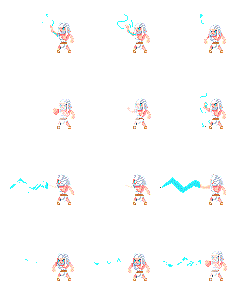
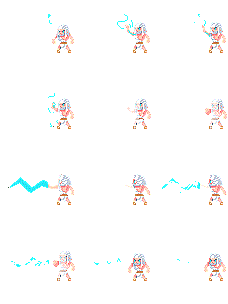
25/5 update attack animation

diff --git a/Assets/Codes/Assets.java b/Assets/Codes/Assets.java
@@ -22,8 +22,6 @@ public class Assets {
         SpriteSheet attack_left = new SpriteSheet(ImageLoader.loadImage("../Images/Player/Zeus/zeus_attack_left.png"));
         SpriteSheet attack_right = new SpriteSheet(ImageLoader.loadImage("../Images/Player/Zeus/zeus_attack_right.png"));
 
-
-
         // Enemy's textures
         SpriteSheet move_right = new SpriteSheet(ImageLoader.loadImage("../Images/Creep/jugg.png"));
         SpriteSheet move_left = new SpriteSheet(ImageLoader.loadImage("../Images/Creep/jugg.png"));
@@ -49,6 +47,81 @@ public class Assets {
         player_idle_right[0] = idle_right.crop(0, 0, 32, 32);
         player_idle_right[1] = idle_right.crop(32, 0, 32, 32);
         player_idle_right[2] = idle_right.crop(0, 32, 32, 32);
+
+        player_attack_front = new BufferedImage[9];
+        player_attack_front[0] = attack_front.crop(15, 1, 32, 32);
+        player_attack_front[1] = attack_front.crop(79, 1, 32, 32);
+        player_attack_front[2] = attack_front.crop(143, 1, 32, 32);
+        player_attack_front[3] = attack_front.crop(15, 63, 32, 64);
+        player_attack_front[4] = attack_front.crop(79, 63, 36, 64);
+        player_attack_front[5] = attack_front.crop(143, 63, 36, 64);
+        player_attack_front[6] = attack_front.crop(15, 125, 36, 64);
+        player_attack_front[7] = attack_front.crop(79, 125, 36, 64);
+        player_attack_front[8] = attack_front.crop(143, 125, 36, 64);
+
+        player_attack_back = new BufferedImage[9];
+        player_attack_back[0] = attack_back.crop(15, 29, 32, 32);
+        player_attack_back[1] = attack_back.crop(80, 29, 32, 32);
+        player_attack_back[2] = attack_back.crop(143, 29, 32, 32);
+        player_attack_back[3] = attack_back.crop(15, 63, 32, 64);
+        player_attack_back[4] = attack_back.crop(80, 63, 36, 64);
+        player_attack_back[5] = attack_back.crop(143, 63, 36, 64);
+        player_attack_back[6] = attack_back.crop(15, 125, 36, 64);
+        player_attack_back[7] = attack_back.crop(80, 125, 36, 64);
+        player_attack_back[8] = attack_back.crop(143, 125, 36, 64);
+
+        player_attack_left = new BufferedImage[12];
+        player_attack_left[0] = ImageLoader.loadImage("../Images/Player/Zeus/zeus_attack_left_1.png");
+        player_attack_left[1] = ImageLoader.loadImage("../Images/Player/Zeus/zeus_attack_left_2.png");
+        player_attack_left[2] = ImageLoader.loadImage("../Images/Player/Zeus/zeus_attack_left_3.png");
+        player_attack_left[3] = ImageLoader.loadImage("../Images/Player/Zeus/zeus_attack_left_4.png");
+        player_attack_left[4] = ImageLoader.loadImage("../Images/Player/Zeus/zeus_attack_left_5.png");
+        player_attack_left[5] = ImageLoader.loadImage("../Images/Player/Zeus/zeus_attack_left_6.png");
+        player_attack_left[6] = ImageLoader.loadImage("../Images/Player/Zeus/zeus_attack_left_7.png");
+        player_attack_left[7] = ImageLoader.loadImage("../Images/Player/Zeus/zeus_attack_left_8.png");
+        player_attack_left[8] = ImageLoader.loadImage("../Images/Player/Zeus/zeus_attack_left_9.png");
+        player_attack_left[9] = ImageLoader.loadImage("../Images/Player/Zeus/zeus_attack_left_10.png");
+        player_attack_left[10] = ImageLoader.loadImage("../Images/Player/Zeus/zeus_attack_left_11.png");
+        player_attack_left[11] = ImageLoader.loadImage("../Images/Player/Zeus/zeus_attack_left_12.png");
+        // player_attack_left[0] = attack_left.crop(40, 1, 33, 64);
+        // player_attack_left[1] = attack_left.crop(120, 1, 32, 64);
+        // player_attack_left[2] = attack_left.crop(196, 1, 32, 64);
+        // player_attack_left[3] = attack_left.crop(40, 79, 34, 64);
+        // player_attack_left[4] = attack_left.crop(120, 79, 32, 64);
+        // player_attack_left[5] = attack_left.crop(192, 79, 35, 64);
+        // player_attack_left[6] = attack_left.crop(0, 157, 84, 64);
+        // player_attack_left[7] = attack_left.crop(60, 157, 84, 64);
+        // player_attack_left[8] = attack_left.crop(120, 157, 84, 64);
+        // player_attack_left[9] = attack_left.crop(0, 236, 84, 64);
+        // player_attack_left[10] = attack_left.crop(60, 236, 84, 64);
+        // player_attack_left[11] = attack_left.crop(120, 236, 84, 64);
+
+        player_attack_right = new BufferedImage[12];
+        player_attack_right[0] = ImageLoader.loadImage("../Images/Player/Zeus/zeus_attack_right_1.png");
+        player_attack_right[1] = ImageLoader.loadImage("../Images/Player/Zeus/zeus_attack_right_2.png");
+        player_attack_right[2] = ImageLoader.loadImage("../Images/Player/Zeus/zeus_attack_right_3.png");
+        player_attack_right[3] = ImageLoader.loadImage("../Images/Player/Zeus/zeus_attack_right_4.png");
+        player_attack_right[4] = ImageLoader.loadImage("../Images/Player/Zeus/zeus_attack_right_5.png");
+        player_attack_right[5] = ImageLoader.loadImage("../Images/Player/Zeus/zeus_attack_right_6.png");
+        player_attack_right[6] = ImageLoader.loadImage("../Images/Player/Zeus/zeus_attack_right_7.png");
+        player_attack_right[7] = ImageLoader.loadImage("../Images/Player/Zeus/zeus_attack_right_8.png");
+        player_attack_right[8] = ImageLoader.loadImage("../Images/Player/Zeus/zeus_attack_right_9.png");
+        player_attack_right[9] = ImageLoader.loadImage("../Images/Player/Zeus/zeus_attack_right_10.png");
+        player_attack_right[10] = ImageLoader.loadImage("../Images/Player/Zeus/zeus_attack_right_11.png");
+        player_attack_right[11] = ImageLoader.loadImage("../Images/Player/Zeus/zeus_attack_right_12.png");
+        // player_attack_right[0] = attack_right.crop(15, 1, 32, 32);
+        // player_attack_right[1] = attack_right.crop(79, 1, 32, 32);
+        // player_attack_right[2] = attack_right.crop(143, 1, 32, 32);
+        // player_attack_right[3] = attack_right.crop(15, 63, 32, 64);
+        // player_attack_right[4] = attack_right.crop(79, 63, 36, 64);
+        // player_attack_right[5] = attack_right.crop(143, 63, 36, 64);
+        // player_attack_right[6] = attack_right.crop(15, 125, 36, 64);
+        // player_attack_right[7] = attack_right.crop(79, 125, 36, 64);
+        // player_attack_right[8] = attack_right.crop(143, 125, 36, 64);
+        // player_attack_right[9] = attack_right.crop(15, 125, 36, 64);
+        // player_attack_right[10] = attack_right.crop(79, 125, 36, 64);
+        // player_attack_right[11] = attack_right.crop(143, 125, 36, 64);
+        
 
         enemy_move_bot = new BufferedImage[4];
         enemy_move_bot[0] = move_bot.crop(0, 0, 46, 62);

diff --git a/Assets/Codes/Player.java b/Assets/Codes/Player.java
@@ -6,39 +6,91 @@ public class Player extends Entity {
 
     private Animation a;
     private Game g;
+    private boolean isFaceFront, isFaceBack, isFaceRight, isFaceLeft;
 
-    public Player(Game g, float x, float y) {
-        super(x, y);
+    public static final float DEFAULT_X = 223.0f;
+    public static final float DEFAULT_Y = 160.0f;
+
+    public Player(Game g, float x, float y, short w, short h) {
+        super(x, y, w, h);
         this.g = g;
         Assets.init();
         a = new Animation(69, Assets.player_idle_front);
+        isFaceBack = false;
+        isFaceFront = true;
+        isFaceLeft = false;
+        isFaceRight = false;
+    }
+
+    public void resetPosition(){
+        this.setX(DEFAULT_X);
+        this.setY(DEFAULT_Y);
     }
 
     @Override
     public void update() {
         // TODO Auto-generated method stub
-       
-        if(g.getKeyManager().up){
+
+        if (g.getKeyManager().up) {
+            isFaceBack = true;
+            isFaceFront = false;
+            isFaceLeft = false;
+            isFaceRight = false;
+            a = new Animation(69, Assets.player_attack_back);
+        } else if (a.getCurrentFrameIndex() == 3 && isFaceBack) {
+            this.setY(125);
+        } else if (a.getCurrentFrameIndex() == 8 && isFaceBack) {
+            this.resetPosition();
             a = new Animation(69, Assets.player_idle_back);
         }
-        if(g.getKeyManager().down){
+
+        if (g.getKeyManager().down) {
+            isFaceBack = false;
+            isFaceFront = true;
+            isFaceLeft = false;
+            isFaceRight = false;
+            a = new Animation(69, Assets.player_attack_front);
+        } else if (a.getCurrentFrameIndex() == 3 && isFaceFront) {
+            this.setY(160);
+        } else if (a.getCurrentFrameIndex() == 8 && isFaceFront) {
+            this.resetPosition();
             a = new Animation(69, Assets.player_idle_front);
         }
-        if(g.getKeyManager().left){
+
+        if (g.getKeyManager().left) {
+            isFaceBack = false;
+            isFaceFront = false;
+            isFaceLeft = true;
+            isFaceRight = false;
+            a = new Animation(69, Assets.player_attack_left);
+            this.setX(178);
+            this.setY(139);
+        } else if (a.getCurrentFrameIndex() == 8 && isFaceLeft) {
+            this.resetPosition();
             a = new Animation(69, Assets.player_idle_left);
         }
-        if(g.getKeyManager().right){
+
+        if (g.getKeyManager().right) {
+            isFaceBack = false;
+            isFaceFront = false;
+            isFaceLeft = false;
+            isFaceRight = true;
+            a = new Animation(69, Assets.player_attack_right);
+            this.setX(228);
+            this.setY(138);
+        } else if (a.getCurrentFrameIndex() == 8 && isFaceRight) {
+            this.resetPosition();
             a = new Animation(69, Assets.player_idle_right);
         }
+
         a.update();
     }
 
     @Override
     public void paint(Graphics g) {
         // TODO Auto-generated method stub
-        
-        g.drawImage(a.getCurrentFrame(), (int)x, (int)y, null);
-        
+
+        g.drawImage(a.getCurrentFrame(), (int) x, (int) y, null);
 
     }
 }

diff --git a/Assets/Codes/Entity.java b/Assets/Codes/Entity.java
@@ -3,10 +3,47 @@ package Assets.Codes;
 import java.awt.Graphics;
 
 public abstract class Entity {
+    
     protected float x,y;
-    public Entity(float x, float y){
+    protected short width, height;
+
+    public Entity(float x, float y, short width, short height){
         this.x = x;
         this.y = y;
+        this.width = width;
+        this.height = height;
+    }
+
+    public float getX() {
+        return this.x;
+    }
+
+    public float getY() {
+        return this.y;
+    }
+
+    public short getWidth() {
+        return this.width;
+    }
+
+    public short getHeight() {
+        return this.height;
+    }
+
+    public void setX(float x){
+        this.x = x;
+    }
+
+    public void setY(float y){
+        this.y = y;
+    }
+
+    public void setWidth(short w){
+        this.width= w;
+    }
+
+    public void setHeight(short h){
+        this.height = h;
     }
 
     public abstract void update();

diff --git a/Assets/Codes/Enemy.java b/Assets/Codes/Enemy.java
@@ -6,8 +6,8 @@ public class Enemy extends Entity {
 
     private Animation a;
 
-    public Enemy(float x, float y) {
-        super(x, y);
+    public Enemy(float x, float y, short w, short h) {
+        super(x, y, w, h);
         a = new Animation(69, Assets.enemy_move_bot);
     }
 
@@ -21,8 +21,7 @@ public class Enemy extends Entity {
     public void paint(Graphics g) {
         // TODO Auto-generated method stub
         g.drawImage(Assets.background, 0, 0, null);
-        g.drawImage(a.getCurrentFrame(), (int)x, (int)y, null);
-        
+        g.drawImage(a.getCurrentFrame(), (int) x, (int) y, null);
 
     }
 }

diff --git a/Assets/Codes/GameState.java b/Assets/Codes/GameState.java
@@ -13,7 +13,7 @@ public class GameState extends State {
 
     public GameState(Game game){
        super(game);
-       p = new Player(game,223,160);
+       p = new Player(game,223,160,(short)32,(short)32);
        a_top = new Animation(69, Assets.enemy_move_bot);
        a_bot = new Animation(69, Assets.enemy_move_top);
        a_right = new Animation(69, Assets.enemy_move_left);

diff --git a/Assets/Codes/Animation.java b/Assets/Codes/Animation.java
@@ -31,4 +31,8 @@ public class Animation {
     public BufferedImage getCurrentFrame() {
         return frames[index];
     }
+
+    public int getCurrentFrameIndex(){
+        return this.index;
+    }
 }
